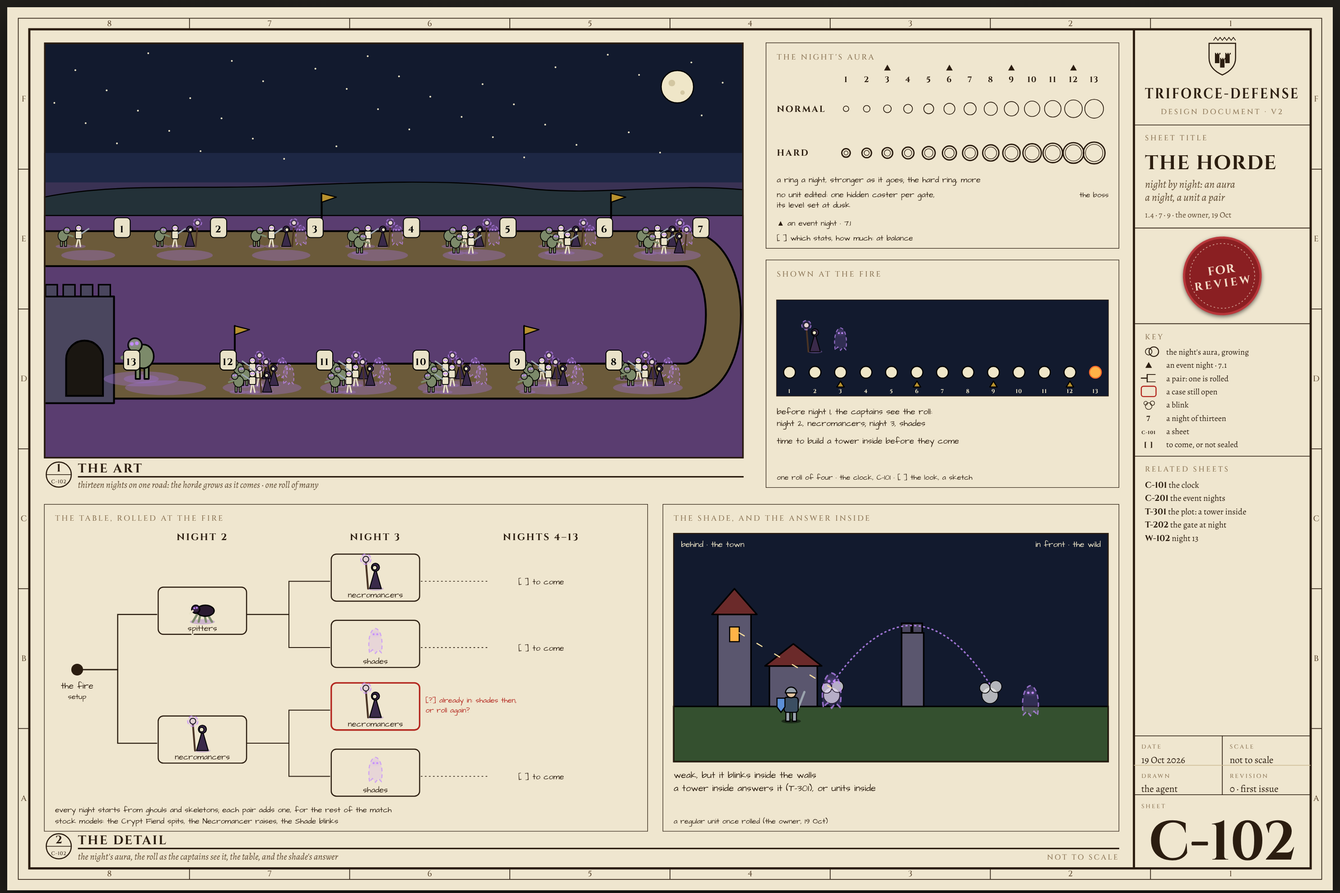
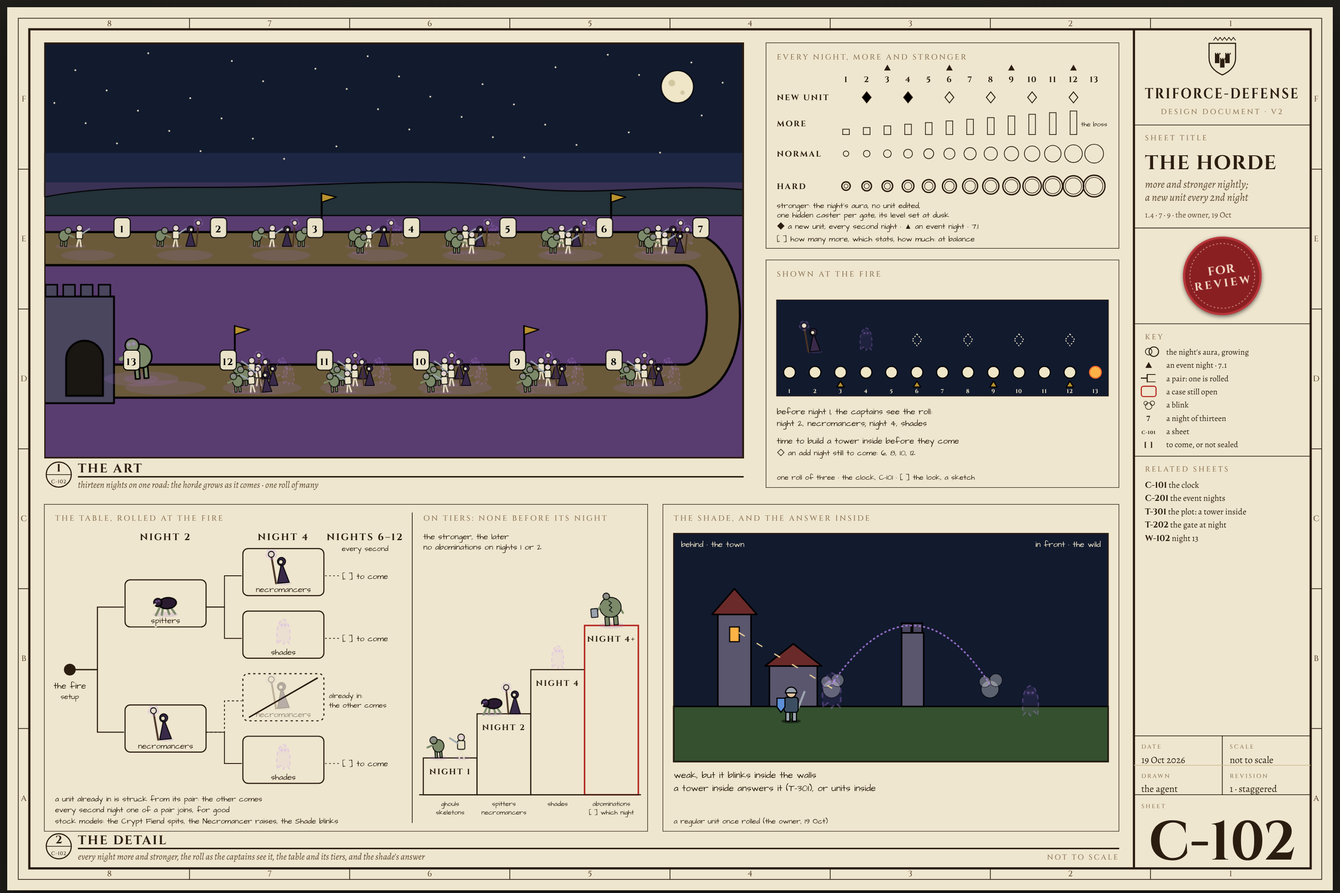
C-102 revision 1: a new unit every second night, the repeat rule, the tiers
Claude-Session: https://claude.ai/code/session_0171ubkrirX9kEJ21GccUo3u

diff --git a/design/v2/sheet_c102.js b/design/v2/sheet_c102.js
@@ -1,11 +1,12 @@
 /* sheet_c102.js — sheet C-102, the horde, night by night (the owner's ideas of 19 Oct; 1.4 · 7 · 9). Two faces
    from MODELS.horde and MODELS.clock:
-   THE ART    the horde on the road through the thirteen nights, growing as it comes: a milestone a night, the
-              event nights flagged, the new units joining as one roll of many has them, the night's aura
+   THE ART    the horde on the road through the thirteen nights, more of it every night: a milestone a night, the
+              event nights flagged, a new unit every second night as one roll of many has them, the night's aura
               glowing stronger under it, night 13's boss at the end, at the gate.
-   THE DETAIL the table, rolled at the fire, as a tree (the open case where a pair repeats is flagged); the night's
-              aura, normal and hard; the roll as the captains see it on the clock; and the shade, which blinks
-              inside the walls, with the answer inside. */
+   THE DETAIL every night more and stronger (the count; the night's aura, normal and hard), every second night a
+              new unit; the roll as the captains see it on the clock; the table, rolled at the fire, as a tree (a
+              unit already in is struck from its pair: the other comes), and beside it the tiers as a staircase
+              (none before its night); and the shade, which blinks inside the walls, with the answer inside. */
 (function () {
   (document.fonts ? Promise.all([...document.fonts].map((f) => f.load().catch(() => null))).then(() => document.fonts.ready) : Promise.resolve()).then(draw);
   function draw() {
@@ -13,9 +14,12 @@
   const HM = window.MODELS.horde, CL = window.MODELS.clock;
   const lbl = (g, x, y, s, anchor, size) => text(g, x, y, s, 'pl-lbl', anchor, size || 24);
   const N = CL.nights, EVENTS = [...CL.events.draws, CL.events.last], BOSS = CL.finale.night;
+  // the add nights: a new unit every second night, before the boss (HM.adds)
+  const ADDS = []; for (let n = HM.adds.first; n < BOSS; n += HM.adds.every) ADDS.push(n);
+  const named = (n) => HM.table.some((r) => r.night === n);
   const sc = (parts, cx, base, k) => ({ t: 'g', transform: `translate(${cx} ${base}) scale(${k}) translate(${-cx} ${-base})`, kids: parts });
   const face = (x, parts) => ({ t: 'g', transform: `translate(${2 * x} 0) scale(-1 1)`, kids: parts });
-  const FIGS = { ghoul: F.ghoul, skeleton: F.skeleton, fiend: F.fiend, necro: F.necro, shade: F.shade };
+  const FIGS = { ghoul: F.ghoul, skeleton: F.skeleton, fiend: F.fiend, necro: F.necro, shade: F.shade, abom: F.abom };
   // the horde on a night, for the example roll: the base, and what each night of the table added by then
   const hordeOn = (n, roll) => [...HM.base, ...HM.table.filter((r) => r.night <= n).map((r) => roll[r.night])];
 
@@ -56,29 +60,34 @@
   for (let n = 1; n <= N; n++) { const [x, y] = at(n), mx = x + (n <= 7 ? 92 : -92), my = y - 54; text(g, mx, my + 10, String(n), 'pl-tier', null, 26).style.fill = 'var(--f-ink)'; }
   el('rect', { width: AW, height: AH, class: 'view-frame', style: 'stroke-width:8' }, A);
 
-  /* ════════════ THE NIGHT'S AURA: normal and hard (the owner, 19 Oct) ════════════ */
+  /* ════════════ EVERY NIGHT MORE AND STRONGER; EVERY SECOND NIGHT, A NEW UNIT (the owner, 19 Oct) ════════════ */
   const AU = document.getElementById('aura'), UW = 960, UH = 560;
   const U = el('g', { class: 'hand-vellum' }, AU);
   el('rect', { width: UW, height: UH, class: 'view-frame' }, U);
-  text(U, 30, 46, "the night's aura", 'sc-kick');
+  text(U, 30, 46, 'every night, more and stronger', 'sc-kick');
   const ux0 = 190, ucw = (UW - ux0 - 40) / N;
   for (let n = 1; n <= N; n++) {
     const x = ux0 + (n - .5) * ucw;
     text(U, x, 108, String(n), 'pl-tier', null, 22);
     if (EVENTS.includes(n)) el('path', { d: `M${x - 9} 76 l18 0 l-9 -16 Z`, class: 'arrow-h' }, U);
+    // a new unit, every second night: a pair named, filled; to come, open
+    if (ADDS.includes(n)) el('path', { d: `M${x} 134 l12 15 l-12 15 l-12 -15 Z`, class: 'ln-heavy', style: `stroke-width:2.4;fill:${named(n) ? 'var(--f-ink)' : 'none'}` }, U);
+    // more: the count, a bar a night, to the boss's night
+    if (n < BOSS) { const bh = 10 + n * 4.5; el('rect', { x: x - 9, y: 250 - bh, width: 18, height: bh, class: 'ln-heavy', style: 'stroke-width:2;fill:none' }, U); }
+    // stronger: the night's aura, normal and hard
     HM.difficulties.forEach((d, r) => {
-      const y = 180 + r * 120, rr = 6 + n * 1.5 + r * 4;
+      const y = 302 + r * 88, rr = 6 + n * 1.5 + r * 4;
       el('circle', { cx: x, cy: y, r: rr, class: 'ln-heavy', style: `fill:none;stroke-width:${2 + r * 1.6}` }, U);
       if (r) el('circle', { cx: x, cy: y, r: rr - 6, class: 'ln-thin', style: 'fill:none;stroke-width:1.6' }, U);
     });
   }
-  HM.difficulties.forEach((d, r) => text(U, 30, 188 + r * 120, d.toUpperCase(), 'st-name', 'start', 24));
-  lbl(U, ux0 + (BOSS - .5) * ucw, 420, 'the boss', 'middle', 20);
-  lbl(U, 30, 380, 'a ring a night, stronger as it goes; the hard ring, more', 'start', 22);
-  lbl(U, 30, 420, 'no unit edited: one hidden caster per gate,', 'start', 22);
-  lbl(U, 30, 448, 'its level set at dusk', 'start', 22);
-  lbl(U, 30, 498, '▲ an event night · 7.1', 'start', 21);
-  lbl(U, 30, UH - 22, '[ ] which stats, how much: at balance', 'start', 21);
+  text(U, 30, 157, 'NEW UNIT', 'st-name', 'start', 22); text(U, 30, 228, 'MORE', 'st-name', 'start', 22);
+  HM.difficulties.forEach((d, r) => text(U, 30, 310 + r * 88, d.toUpperCase(), 'st-name', 'start', 22));
+  lbl(U, ux0 + (BOSS - .5) * ucw, 228, 'the boss', 'middle', 18);
+  lbl(U, 30, 450, "stronger: the night's aura, no unit edited,", 'start', 21);
+  lbl(U, 30, 476, 'one hidden caster per gate, its level set at dusk', 'start', 21);
+  lbl(U, 30, 506, '◆ a new unit, every second night · ▲ an event night · 7.1', 'start', 21);
+  lbl(U, 30, UH - 20, '[ ] how many more, which stats, how much: at balance', 'start', 21);
 
   /* ════════════ SHOWN AT THE FIRE: the roll on the clock ════════════ */
   const CK = document.getElementById('clock'), KW = 960, KH = 620;
@@ -91,45 +100,68 @@
     const x = (n - .5) * cw;
     sp.push({ t: 'circle', cx: x, cy: 196, r: 16, rc: n === BOSS ? 'f-flame' : 'f-moon' });
     if (EVENTS.includes(n)) sp.push({ t: 'poly', pts: [[x - 10, 236], [x + 10, 236], [x, 220]], rc: 'f-flag' });
-    const r = HM.table.find((t) => t.night === n);
-    if (r) { const k = HM.example[n]; sp.push(sc(FIGS[k](x, 140, 0), x, 140, .9)); }
+    if (named(n)) { const k = HM.example[n]; sp.push(sc(FIGS[k](x, 140, 0), x, 140, .9)); }
+    else if (ADDS.includes(n)) sp.push({ t: 'poly', pts: [[x, 92], [x + 13, 108], [x, 124], [x - 13, 108]], rc: 'f-moon', style: 'fill:none;stroke:var(--f-moon);stroke-width:2.4;stroke-dasharray:4 4' });
   }
   render(sp, strip);
   for (let n = 1; n <= N; n++) { const t = text(strip, (n - .5) * cw, 252, String(n), 'pl-tier', null, 15); t.style.fill = 'var(--f-moon)'; }
   el('rect', { x: 30, y: 110, width: SW, height: SH, class: 'view-frame', style: 'stroke-width:3' }, K);
   lbl(K, 30, 420, 'before night 1, the captains see the roll:', 'start', 23);
-  lbl(K, 30, 452, `night 2, ${HM.units[HM.example[2]].name}; night 3, ${HM.units[HM.example[3]].name}`, 'start', 23);
+  lbl(K, 30, 452, HM.table.map((r) => `night ${r.night}, ${HM.units[HM.example[r.night]].name}`).join('; '), 'start', 23);
   lbl(K, 30, 500, 'time to build a tower inside before they come', 'start', 23);
-  lbl(K, 30, KH - 22, 'one roll of four · the clock, C-101 · [ ] the look, a sketch', 'start', 20);
+  lbl(K, 30, 532, `◇ an add night still to come: ${ADDS.filter((n) => !named(n)).join(', ')}`, 'start', 21);
+  lbl(K, 30, KH - 22, 'one roll of three · the clock, C-101 · [ ] the look, a sketch', 'start', 20);
 
-  /* ════════════ THE TABLE, ROLLED AT THE FIRE: a tree (the owner, 19 Oct) ════════════ */
+  /* ════════════ THE TABLE, ROLLED AT THE FIRE: a tree; and the tiers, a staircase (the owner, 19 Oct) ════════════ */
   const TB = document.getElementById('table'), TW = 1640, TH = 890;
   const T = el('g', { class: 'hand-vellum' }, TB);
   el('rect', { width: TW, height: TH, class: 'view-frame' }, T);
   text(T, 30, 46, 'the table, rolled at the fire', 'sc-kick');
-  const [r2, r3] = HM.table, node = (x, y, k, mark) => {
-    el('rect', { x: x - 120, y: y - 74, width: 240, height: 128, rx: 14, class: mark ? 'rl' : 'pl-old', style: `stroke-width:${mark ? 4 : 3};fill:var(--dv-paper)` }, T);
-    render([sc(FIGS[k](x, y + 20, 0), x, y + 20, 1)], el('g', {}, TB));
-    lbl(T, x, y + 44, HM.units[k].name, 'middle', 22);
+  // a unit already in is struck from its pair, and the other comes (HM.repeat): drawn faded, struck through
+  const [r2, r3] = HM.table, NW = 220, node = (x, y, k, struck) => {
+    el('rect', { x: x - NW / 2, y: y - 74, width: NW, height: 128, rx: 14, class: 'pl-old', style: `stroke-width:3;fill:var(--dv-paper)${struck ? ';stroke-dasharray:6 8' : ''}` }, T);
+    render([sc(FIGS[k](x, y + 20, 0), x, y + 20, 1)], el('g', struck ? { style: 'opacity:.3' } : {}, TB));
+    const nm = lbl(T, x, y + 44, HM.units[k].name, 'middle', 22);
+    if (struck) { nm.style.opacity = .45; el('line', { x1: x - NW / 2 + 18, y1: y + 44, x2: x + NW / 2 - 18, y2: y - 62, class: 'ln-heavy', style: 'stroke-width:4' }, T); }
   };
-  const rx = 90, ry = 450, x2 = 430, x3 = 900, xr = 1350;
+  const rx = 70, ry = 450, x2 = 330, x3 = 650, xr = 872;
   el('circle', { cx: rx, cy: ry, r: 16, class: 'pl-wall' }, T); lbl(T, rx, ry + 52, 'the fire', 'middle', 24); lbl(T, rx, ry + 80, 'setup', 'middle', 20);
-  text(T, x2, 98, `NIGHT ${r2.night}`, 'st-name', 'middle', 26); text(T, x3, 98, `NIGHT ${r3.night}`, 'st-name', 'middle', 26); text(T, xr, 98, `NIGHTS ${r3.night + 1}–${N}`, 'st-name', 'middle', 26);
+  text(T, x2, 98, `NIGHT ${r2.night}`, 'st-name', 'middle', 26); text(T, x3, 98, `NIGHT ${r3.night}`, 'st-name', 'middle', 26); const later = ADDS.filter((n) => n > r3.night);
+  text(T, xr, 98, `NIGHTS ${later[0]}–${later[later.length - 1]}`, 'st-name', 'middle', 26); lbl(T, xr, 128, 'every second', 'middle', 20);
   r2.pair.forEach((k2, i) => {
-    const y2 = 300 + i * 350;
-    el('path', { d: `M${rx} ${ry} H${(rx + x2 - 120) / 2} V${y2} H${x2 - 124}`, class: 'ln-heavy', style: 'stroke-width:3;fill:none' }, T);
+    const y2 = 280 + i * 340;
+    el('path', { d: `M${rx} ${ry} H${(rx + x2 - NW / 2) / 2} V${y2} H${x2 - NW / 2 - 4}`, class: 'ln-heavy', style: 'stroke-width:3;fill:none' }, T);
     node(x2, y2, k2);
     r3.pair.forEach((k3, j) => {
-      const y3 = y2 - 90 + j * 180, repeat = k3 === k2;
-      el('path', { d: `M${x2 + 120} ${y2} H${(x2 + x3) / 2} V${y3} H${x3 - 124}`, class: 'ln-thin', style: 'stroke-width:2.4;fill:none' }, T);
-      node(x3, y3, k3, repeat);
-      if (repeat) lbl(T, x3 + 136, y3 - 20, '[?] already in: shades then,', 'start', 20).style.fill = 'var(--redline)';
-      if (repeat) lbl(T, x3 + 136, y3 + 6, 'or roll again?', 'start', 20).style.fill = 'var(--redline)';
-      else { el('line', { x1: x3 + 124, y1: y3, x2: xr - 140, y2: y3, class: 'ln-thin', style: 'stroke-width:2;stroke-dasharray:3 8' }, T); lbl(T, xr, y3 + 8, '[ ] to come', 'middle', 22); }
+      const y3 = y2 - 85 + j * 170, struck = k3 === k2;
+      el('path', { d: `M${x2 + NW / 2} ${y2} H${(x2 + x3) / 2} V${y3} H${x3 - NW / 2 - 4}`, class: 'ln-thin', style: `stroke-width:2.4;fill:none${struck ? ';stroke-dasharray:4 8' : ''}` }, T);
+      node(x3, y3, k3, struck);
+      if (struck) { lbl(T, x3 + NW / 2 + 14, y3 - 8, 'already in:', 'start', 20); lbl(T, x3 + NW / 2 + 14, y3 + 18, 'the other comes', 'start', 20); }
+      else { el('line', { x1: x3 + NW / 2 + 4, y1: y3, x2: xr - 66, y2: y3, class: 'ln-thin', style: 'stroke-width:2;stroke-dasharray:3 8' }, T); lbl(T, xr, y3 + 8, '[ ] to come', 'middle', 22); }
     });
   });
-  lbl(T, 30, TH - 52, 'every night starts from ghouls and skeletons; each pair adds one, for the rest of the match', 'start', 21);
+  lbl(T, 30, TH - 82, 'a unit already in is struck from its pair: the other comes', 'start', 21);
+  lbl(T, 30, TH - 52, 'every second night one of a pair joins, for good', 'start', 21);
   lbl(T, 30, TH - 22, 'stock models: the Crypt Fiend spits, the Necromancer raises, the Shade blinks', 'start', 21);
+
+  // the tiers (HM.tiers): a step a tier, none before its night, the stronger the later; the last step's night open
+  el('line', { x1: 1000, y1: 24, x2: 1000, y2: TH - 24, class: 'ln-thin', style: 'stroke-width:2' }, T);
+  text(T, 1030, 46, 'on tiers: none before its night', 'sc-kick');
+  lbl(T, 1030, 96, 'the stronger, the later', 'start', 22);
+  lbl(T, 1030, 124, 'no abominations on nights 1 or 2', 'start', 22);
+  const sx0 = 1030, sw = 146, floor = 790;
+  HM.tiers.forEach((tr, i) => {
+    const x = sx0 + i * sw, top = 690 - i * 120, open = tr.from == null;
+    el('rect', { x, y: top, width: sw, height: floor - top, class: open ? 'rl' : 'pl-old', style: `stroke-width:${open ? 4 : 3};fill:var(--dv-paper)` }, T);
+    text(T, x + sw / 2, top + 44, open ? `NIGHT ${ADDS.find((n) => n > tr.after)}+` : `NIGHT ${tr.from}`, 'st-name', 'middle', 22);
+    tr.units.forEach((k, j) => {
+      const fx = x + sw / 2 + (j - (tr.units.length - 1) / 2) * 64;
+      render([sc(FIGS[k](fx, top, j * .2), fx, top, .9)], el('g', {}, TB));
+      lbl(T, x + sw / 2, floor + 30 + j * 24, HM.units[k].name, 'middle', 18);
+    });
+    if (open) lbl(T, x + sw / 2, floor + 54, '[ ] which night', 'middle', 18);
+  });
+  el('line', { x1: sx0 - 10, y1: floor, x2: sx0 + HM.tiers.length * sw + 6, y2: floor, class: 'ln-heavy', style: 'stroke-width:3' }, T);
 
   /* ════════════ THE SHADE, AND THE ANSWER INSIDE ════════════ */
   const SD = document.getElementById('shade'), DW = 1240, DH = 890;

diff --git a/design/v2/C-102.html b/design/v2/C-102.html
@@ -4,7 +4,7 @@
 <meta charset="utf-8">
 <meta name="viewport" content="width=device-width, initial-scale=1">
 <title>C-102 · The Horde</title>
-<meta name="description" content="Sheet C-102, the horde night by night: the horde growing on the road through thirteen nights, the night's aura for normal and hard, the unit table rolled at the fire, and the shade that blinks inside the walls. From the owner's ideas of 19 October.">
+<meta name="description" content="Sheet C-102, the horde night by night: the horde growing on the road through thirteen nights, the night's aura for normal and hard, the unit table rolled at the fire and its tiers, and the shade that blinks inside the walls. From the owner's ideas of 19 October.">
 <link rel="stylesheet" href="wallsheet_tokens.css">
 <link rel="stylesheet" href="wallsheet_ds.css">
 </head>
@@ -12,7 +12,7 @@
 <main class="sheet">
   <svg viewBox="0 0 3600 2400" aria-labelledby="c102-title" aria-describedby="c102-desc">
     <title id="c102-title">Sheet C-102, the horde, night by night. For review.</title>
-    <desc id="c102-desc">The art, top left: the horde on a road through the thirteen nights, a switchback across a blighted land at night, a milestone for every night, the event nights flagged. It grows as it comes: ghouls and skeletons, then necromancers from night 2 and shades from night 3, as one roll of many has it, the night's aura glowing stronger beneath it, and at the road's end, at the gate, night 13's boss. Top right, the night's aura: a ring for every night in two rows, normal and hard, growing night by night, no unit edited, one hidden caster per gate set at dusk; and the roll as the captains see it at the fire, the clock's thirteen nights with the new units above nights 2 and 3. Below, the table rolled at the fire, a tree: from the fire to night 2's pair, spitters or necromancers, to night 3's pair, necromancers or shades, the case where the pair repeats flagged as open, the rest of the table to come. And the shade: weak, it blinks over the wall into the town, where a tower inside shoots it and a footman takes it.</desc>
+    <desc id="c102-desc">The art, top left: the horde on a road through the thirteen nights, a switchback across a blighted land at night, a milestone for every night, the event nights flagged. More of it comes every night: ghouls and skeletons, then a new unit every second night, necromancers from night 2 and shades from night 4 as one roll of many has it, the night's aura glowing stronger beneath it, and at the road's end, at the gate, night 13's boss. Top right, every night more and stronger: a diamond on every second night for a new unit, a bar a night for the count, and a ring a night in two rows, normal and hard, for the night's aura, no unit edited, one hidden caster per gate set at dusk; and the roll as the captains see it at the fire, the clock's thirteen nights with the new units above nights 2 and 4 and open diamonds above the add nights still to come. Below, the table rolled at the fire, a tree: from the fire to night 2's pair, spitters or necromancers, to night 4's pair, necromancers or shades; where night 2 brought necromancers they are struck from night 4's pair and shades come; nights 6 to 12 to come. Beside it the tiers, a staircase, a step a tier, none before its night: ghouls and skeletons from night 1, spitters and necromancers from night 2, shades from night 4, abominations on a last step, not before night 4, their night open. And the shade: weak, it blinks over the wall into the town, where a tower inside shoots it and a footman takes it.</desc>
     <rect class="paper" width="3600" height="2400"/>
     <rect class="border-2" x="30" y="30" width="3540" height="2340"/>
     <rect class="border" x="60" y="60" width="3480" height="2280"/>
@@ -49,16 +49,16 @@
     <text class="vt-title" x="192" y="1264" style="font-size:34px">THE ART</text>
     <line class="rule" x1="192" y1="1276" x2="2000" y2="1276" style="stroke-width:4"/>
     <text class="vt-sub" x="192" y="1306" style="font-size:25px">thirteen nights on one road: the horde grows as it comes · one roll of many</text>
-    <svg id="aura" x="2060" y="96" width="960" height="560" viewBox="0 0 960 560" role="img" aria-label="The night's aura, normal and hard."></svg>
+    <svg id="aura" x="2060" y="96" width="960" height="560" viewBox="0 0 960 560" role="img" aria-label="Every night more and stronger: the count, and the night's aura, normal and hard; every second night a new unit."></svg>
     <svg id="clock" x="2060" y="686" width="960" height="620" viewBox="0 0 960 620" role="img" aria-label="The roll, shown at the fire on the clock."></svg>
-    <svg id="table" x="100" y="1350" width="1640" height="890" viewBox="0 0 1640 890" role="img" aria-label="The unit table rolled at the fire, as a tree."></svg>
+    <svg id="table" x="100" y="1350" width="1640" height="890" viewBox="0 0 1640 890" role="img" aria-label="The unit table rolled at the fire, as a tree; and the tiers, a staircase."></svg>
     <svg id="shade" x="1780" y="1350" width="1240" height="890" viewBox="0 0 1240 890" role="img" aria-label="The shade blinks inside the walls; the answer inside."></svg>
 
     <circle class="vt-ring" cx="140" cy="2280" r="34"/><line class="rule" x1="106" y1="2280" x2="174" y2="2280"/>
     <text class="vt-id" x="140" y="2272" style="font-size:30px">2</text><text class="vt-sh" x="140" y="2304" style="font-size:14px">C-102</text>
     <text class="vt-title" x="192" y="2274" style="font-size:34px">THE DETAIL</text>
     <line class="rule" x1="192" y1="2286" x2="3020" y2="2286" style="stroke-width:4"/>
-    <text class="vt-sub" x="192" y="2316" style="font-size:25px">the night's aura, the roll as the captains see it, the table, and the shade's answer</text>
+    <text class="vt-sub" x="192" y="2316" style="font-size:25px">every night more and stronger, the roll as the captains see it, the table and its tiers, and the shade's answer</text>
     <text class="vt-scale" x="3020" y="2316">NOT TO SCALE</text>
 
     <line class="rule" x1="3060" y1="60" x2="3060" y2="2340" style="stroke-width:6"/>
@@ -72,8 +72,8 @@
     <line class="rule" x1="3060" y1="320" x2="3540" y2="320"/>
     <text class="tb-kick" x="3090" y="362">sheet title</text>
     <text class="tb-title" x="3090" y="440" style="font-size:54px">THE HORDE</text>
-    <text class="tb-sub" x="3090" y="490" style="font-size:29px">night by night: an aura</text>
-    <text class="tb-sub" x="3090" y="526" style="font-size:29px">a night, a unit a pair</text>
+    <text class="tb-sub" x="3090" y="490" style="font-size:29px">more and stronger nightly;</text>
+    <text class="tb-sub" x="3090" y="526" style="font-size:29px">a new unit every 2nd night</text>
     <text class="tb-small" x="3090" y="572">1.4 · 7 · 9 · the owner, 19 Oct</text>
     <line class="rule" x1="3060" y1="600" x2="3540" y2="600"/>
     <g transform="translate(3300 730) rotate(-8)">
@@ -96,7 +96,7 @@
     <text class="tb-kick" x="3320" y="2014" style="font-size:16px">scale</text><text class="tb-text" x="3320" y="2054">not to scale</text>
     <line class="rule-2" x1="3060" y1="2060" x2="3540" y2="2060"/>
     <text class="tb-kick" x="3080" y="2094" style="font-size:16px">drawn</text><text class="tb-text" x="3080" y="2132">the agent</text>
-    <text class="tb-kick" x="3320" y="2094" style="font-size:16px">revision</text><text class="tb-text" x="3320" y="2132">0 · first issue</text>
+    <text class="tb-kick" x="3320" y="2094" style="font-size:16px">revision</text><text class="tb-text" x="3320" y="2132">1 · staggered</text>
     <line class="rule" x1="3060" y1="2140" x2="3540" y2="2140"/>
     <text class="tb-kick" x="3080" y="2176" style="font-size:16px">sheet</text>
     <text class="tb-num" x="3300" y="2316" textLength="400" lengthAdjust="spacingAndGlyphs">C-102</text>

diff --git a/design/v2/model_horde.js b/design/v2/model_horde.js
@@ -1,26 +1,43 @@
-/* model_horde.js — THE HORDE, night by night (the owner's ideas of 19 Oct, shaped by the owner's three answers; 1.4 ·
-   7 · 9), as one model. Sheet C-102 draws it twice: as the art (the horde on the road, growing night by night,
-   one roll of many) and as the detail (the table rolled at the fire, the night's aura, the shade's answer).
+/* model_horde.js — THE HORDE, night by night (the owner's ideas of 19 Oct, shaped by the owner's answers; 1.4 ·
+   7 · 9), as one model: every night more and stronger, every second night a new unit. Sheet C-102 draws it twice:
+   as the art (the horde on the road, growing night by night, one roll of many) and as the detail (the nights'
+   growth, the table rolled at the fire, the tiers, the shade's answer).
    The nights, the event nights and night 13 come from MODELS.clock; nothing here is a balance value. */
 (function () {
   (window.MODELS = window.MODELS || {}).horde = {
     // every night's wave starts from the stock horde (v1's dioramas: ghouls and skeletons)
     base: ['ghoul', 'skeleton'],
-    // the unit table: each listed night adds one of a pair, rolled at setup and shown at the fire (owner, 19 Oct).
-    // The owner named two; the rest of the table is to come
-    table: [{ night: 2, pair: ['fiend', 'necro'] }, { night: 3, pair: ['necro', 'shade'] }],
+    // every night the horde grows in count and in strength; a new unit only every second night, staggered (owner,
+    // 19 Oct: "every 2 nights we add a unit"): nights 2, 4, 6, 8, 10, 12, before night 13's boss
+    adds: { first: 2, every: 2 },
+    // the unit table: each add night brings one of a pair, rolled at setup and shown at the fire (owner, 19 Oct).
+    // The owner named two pairs (said for nights 2 and 3, before adds came every second night); the rest is to come
+    table: [{ night: 2, pair: ['fiend', 'necro'] }, { night: 4, pair: ['necro', 'shade'] }],
+    // the repeat rule (owner, 19 Oct): a unit already in is struck from its pair, and the other comes
+    // (night 2 necromancers, so night 4 shades)
+    repeat: 'the other of the pair',
+    // the tiers (owner, 19 Oct): units are staged by how strong they are, and none comes before its tier's night
+    // ("you can't get abomination round 1 or 2"). As Mindustry's unit ladders and Shattered Pixel Dungeon's mob
+    // rotation by depth stage theirs. The abomination's night is open: the first add night after night 2, at the earliest
+    tiers: [
+      { from: 1, units: ['ghoul', 'skeleton'] },
+      { from: 2, units: ['fiend', 'necro'] },
+      { from: 4, units: ['shade'] },
+      { from: null, after: 2, units: ['abom'] }
+    ],
     units: {
       ghoul: { name: 'ghouls', model: 'Ghoul' }, skeleton: { name: 'skeletons', model: 'Skeleton Warrior' },
       fiend: { name: 'spitters', model: 'Crypt Fiend', does: 'spits from range' },
       necro: { name: 'necromancers', model: 'Necromancer', does: 'raises the dead' },
       // a regular unit once rolled (owner, 19 Oct): weak, it blinks inside the walls; a tower or units inside answer it
-      shade: { name: 'shades', model: 'Shade, with Blink', does: 'blinks inside the walls' }
+      shade: { name: 'shades', model: 'Shade, with Blink', does: 'blinks inside the walls' },
+      abom: { name: 'abominations', model: 'Abomination' }
     },
     // the night's aura: one aura per night per difficulty raises the horde's stats in data, no unit edited; one
     // hidden caster per gate, its level set at dusk (owner, 19 Oct: normal and hard). Which stats, how much: open
     difficulties: ['normal', 'hard'],
     aura: { caster: 'one hidden caster per gate', set: 'its level, at dusk', stats: null },
-    // the roll the art draws: one of the four (night 2 necromancers, so night 3 shades)
-    example: { 2: 'necro', 3: 'shade' }
+    // the roll the art draws: one of the three (night 2 necromancers, so night 4 shades, the other of the pair)
+    example: { 2: 'necro', 4: 'shade' }
   };
 })();

diff --git a/design/v2/figures.js b/design/v2/figures.js
@@ -85,6 +85,23 @@
       { t: 'circle', cx: cx + 5, cy: base - 56, r: 2.6, rc: 'f-eye', dc: null }
     ] }
   ];
+  /* the abomination: the owner's example of a strong unit held to a later tier (19 Oct). The gut, its stitches,
+     a small head, the cleaver */
+  FIG.abom = (cx, base, delay) => [
+    { t: 'ellipse', cx, cy: base, rx: 40, ry: 9, rc: 'f-aura', dc: null, anim: 'm-tell' },
+    { t: 'g', anim: 'm-shamble', delay, kids: [
+      { t: 'rect', x: cx - 18, y: base - 26, w: 13, h: 26, rc: 'f-ghoul', dc: 'ln' },
+      { t: 'rect', x: cx + 8, y: base - 26, w: 13, h: 26, rc: 'f-ghoul', dc: 'ln' },
+      { t: 'line', x1: cx + 24, y1: base - 62, x2: cx + 38, y2: base - 34, rc: 'f-limb', dc: 'ln-open' },
+      { t: 'ellipse', cx: cx + 2, cy: base - 54, rx: 32, ry: 30, rc: 'f-ghoul', dc: 'ln' },
+      { t: 'path', d: `M${cx - 2} ${base - 74} l8 7 l-8 7 l8 7 l-8 7 l8 7`, rc: 'f-limb', dc: 'ln-open', style: 'stroke:var(--f-ink);stroke-width:2;fill:none' },
+      { t: 'circle', cx: cx - 8, cy: base - 88, r: 10, rc: 'f-ghoul', dc: 'ln' },
+      { t: 'circle', cx: cx - 12, cy: base - 89, r: 2.6, rc: 'f-eye', dc: null, anim: 'm-tell' },
+      { t: 'circle', cx: cx - 5, cy: base - 90, r: 2.6, rc: 'f-eye', dc: null, anim: 'm-tell' },
+      { t: 'line', x1: cx - 26, y1: base - 62, x2: cx - 42, y2: base - 44, rc: 'f-limb', dc: 'ln-open' },
+      { t: 'rect', x: cx - 58, y: base - 54, w: 20, h: 26, rx: 2, rc: 'f-steel', dc: 'ln' }
+    ] }
+  ];
 
   /* a captain on horseback with the town's banner (the field force's head) */
   FIG.rider = (cx, base) => [

diff --git a/design/v2/wallsheet.js b/design/v2/wallsheet.js
@@ -41,6 +41,7 @@
         render(p.kids, gg);
       } else if (p.rc) {
         const s = shape(p, p.rc + (p.anim ? ' ' + p.anim : ''), g);
+        if (p.style) s.setAttribute('style', p.style);
         if (p.delay) s.style.setProperty('--d', p.delay + 's');
       }
     }

diff --git a/DECISIONS.md b/DECISIONS.md
@@ -142,8 +142,8 @@ Status ∈ **Planned · In Design · Locked · Built · Superseded**.
 | Plot count and menu contents | Defines the fork | Human | Open |
 | Night count / day length / buff values | Match length | Human | Open (defaults in Decision 1.4) |
 | The quick road isn't quicker on the sketch: hill to forest through the wild measures 1.13× the safe road, wall to wall. Every gate faces north while the roads leave the towns' sides; where do the roads meet the gates? (sheet M-101) | Decision 1.2's choice, every reinforcement | Human | Open. Owner, 19 Oct: the safe road is safe because you lose no units on it (a speed-aura road was raised and dropped) |
-| The night ladder: which stats the night's aura raises, and by how much, normal and hard; and the hard set's own curve (sheet C-102) | The horde's growth, the two difficulties | Human | Open (the shape is sealed; see the Change Log, 19 Oct) |
-| The unit table past night 3, and the repeat rule: if night 2 rolls necromancers, night 3's pair (necromancers or shades) holds them already; shades then, or roll again? (sheet C-102) | Each match's horde | Human | Open |
+| The night ladder: how many more each night, which stats the night's aura raises, and by how much, normal and hard; and the hard set's own curve (sheet C-102) | The horde's growth, the two difficulties | Human | Open (the shape is sealed; see the Change Log, 19 Oct) |
+| The unit table past night 4 (adds on nights 6, 8, 10 and 12), and the abomination's night (4 at the earliest) (sheet C-102) | Each match's horde | Human | Open (every second night, the repeat rule and the tiers are sealed; see the Change Log, 19 Oct) |
 | What we change from Left 2 Die, beyond three players, Humans and the King's army; and whether to borrow its entrances that open on a set night, the wild hardening where it isn't cleared, or its endless mode (`docs/LEFT2DIE.md`) | The game's other parent | Human | Open |
 | Undead air: how much, so Riflemen + towers are enough | No player air T3 | Agent | Open |
 | Ritual mechanics: what weakens the boss per ritual, acolyte behaviour | Win B | Human | Open |
@@ -164,3 +164,4 @@ Status ∈ **Planned · In Design · Locked · Built · Superseded**.
 | 2026-10-19 | New (owner): the horde, night by night. Each night carries an aura per difficulty that raises the horde's stats in data, no unit edited (one hidden caster per gate, its level set at dusk), in two sets, normal and hard. Each night of the unit table adds one unit of a pair, rolled at setup and shown at the fire before night 1 (named so far: night 2, spitters or necromancers; night 3, necromancers or shades), on stock models (the Crypt Fiend, the Necromancer, the Shade with Blink). Shades are a regular unit once rolled: weak, they blink inside the walls, so a tower or units inside have a job. Precedents: WC3 maps' dummy-aura casters; Mindustry's wave generator (random unit lines, scaling by shields). | Owner, 19 Oct, answering three questions | the nights (1.4, 7), the wave data, `design/v2/model_horde.js`, sheet C-102 |
 | 2026-10-19 | Decisions 2.3 and 6.7 clarified: the garrison holds the gate from outside it (footmen cannot fight through a closed gate), the repair crew mends it from inside the walls, and the scout towers shoot over the wall from behind it. The garrison's captain stays behind the gate (2.3, amended in v1). | Owner, on sheet T-201: the crew was drawn outside, then the garrison inside | the garrison's rally point, the crew's path, `design/v2/sheet_t201.js`, `design/v2/sheet_t202.js` |
 | 2026-10-19 | The owner names StarCraft II's *Left 2 Die* (Blizzard, 2011; from WoL's *Outbreak*; remade 2017 as co-op *Dead of Night*) as a base, "with some changes of course". Researched and noted: the same night/day push loop; its win burns every infested structure where ours breaks three rituals; its fortress-and-repairing-SCVs line is our gate and crew; Dead of Night's two random special infested per run and its HP-per-difficulty match C-102's roll and auras. No decision changed; one open question. | Owner, 19 Oct | `docs/LEFT2DIE.md`; the one sentence (a second parent named, the sentence unchanged) |
+| 2026-10-19 | The horde's growth, corrected, and the unit table's rules. **Every night** the horde grows in count and in strength (the night's aura); **a new unit only every second night**, staggered: nights 2, 4, 6, 8, 10, 12, before the boss (the owner: "I don't have 14 different units worked out"). The named pairs fall on nights 2 and 4 (spitters or necromancers; necromancers or shades); 6 to 12 are to come. **Repeat:** a unit already in is struck from its pair and the other comes (night 2 necromancers, so night 4 shades); three rolls, not four. **Tiers:** units are staged by how strong they are, and none comes before its tier's night ("you can't get abomination round 1 or 2"): ghouls and skeletons from night 1, spitters and necromancers from 2, shades from 4, the abomination 4 at the earliest. Precedents: Mindustry's unit ladders (a line climbs a tier a step, the top tier kept for bosses) and Shattered Pixel Dungeon's mob rotation by depth (each mob enters at a set depth). Supersedes the 19 Oct row's "each night of the unit table" and its night-3 pair. | Owner, 19 Oct, on sheet C-102 | the wave data, `design/v2/model_horde.js`, sheet C-102 |

diff --git a/docs/CHANGELOG.md b/docs/CHANGELOG.md
@@ -7,6 +7,12 @@ Mirrors the Build Timeline in `DECISIONS.md`.
 ## Unreleased
 - …
 
+## 2026-10-19 — C-102 revision 1: a new unit every second night; the repeat rule; the tiers
+- The owner corrected the horde's growth: not a new unit every night ("I don't have 14 different units worked out"). Every night the horde grows in count and in strength; a new unit every second night, staggered: nights 2, 4, 6, 8, 10, 12. The named pairs fall on nights 2 and 4; 6 to 12 are to come.
+- The owner on C-102's open case: a unit already in is struck from its pair and the other comes (night 2 necromancers, so night 4 shades). And units are staged on tiers by how strong they are, none before its tier's night ("you can't get abomination round 1 or 2"). Looked up first: Mindustry's `Waves.java` (unit lines as five-tier ladders, climbed a tier a step, the top tier kept for bosses) and Shattered Pixel Dungeon's `MobSpawner.java` (a mob rotation per depth, each mob entering at a set depth). Change Log row in `DECISIONS.md`; the open questions narrow to the table past night 4, the abomination's night, and how many more each night.
+- `model_horde.js` gains the add nights, the repeat rule and the tiers; figures gain the Abomination. C-102: the top-right panel becomes "every night, more and stronger", four rows over the thirteen nights (a diamond on every second night for a new unit, a bar a night for the count, the aura's rings, normal and hard); the clock strip marks the add nights still to come; the table's struck necromancers faded and crossed, "already in: the other comes"; beside the tree, the tiers as a staircase, the units standing on the night they may first come, the abomination's step (night 4+) open in red. One roll of three. In the art, shades now join on night 4.
+- `wallsheet.js`: `render()` now applies a part's `style`. Only C-102 passes one: its road widths, and its aura glowing stronger night by night, which the art had drawn without.
+
 ## 2026-10-19 — Left 2 Die, the other parent
 - The owner: the game is based on StarCraft II's *Left 2 Die*, with changes. `docs/LEFT2DIE.md` (new): what it is (Blizzard's 2011 co-op map from WoL's *Outbreak*, remade as *Dead of Night* in 2017), the loop, the special infested and how difficulty scales them, the players' kit and biomass, the map, and a side-by-side with this design. Sourced from search excerpts; the wiki and forum hosts were refused by the session's network, and what no source settled is marked unconfirmed.
 - `DECISIONS.md`: the second parent named under the one sentence (the sentence unchanged), a Change Log row, and one open question: what changes, and whether to borrow three of its devices.

diff --git a/design/v2/RULES.md b/design/v2/RULES.md
@@ -58,7 +58,7 @@ Q1–Q7 are answered and sealed as R1–R10 (19 Oct 2026). A new rule, or a chan
 | T-201 | the gate (2.3 · 2.4 · 6.7) | the art (the gate's own elevation, X-001's model, at the first blow) beside its card and one gate in three towns, over the gate in plan and who does what at the gate | **approved** 19 Oct. Its numbers are v1's screen's, bracketed. Rev 1: the owner found the night chart meaningless; of three replacements shown (`shots/T-201-panel-options.png`) the owner liked all three and split the gate in two. Rev 2: the owner caught the crew on the wrong side of the wall; the art is split at a break, behind (the town, the crew inside) and in front (the wild, the garrison out front) |
 | T-202 | the gate at night (2.3 · 2.7 · 6.7 · 7) | the art (three nights at the gate, a storyboard that plays like an animatic) over what's at your gate tonight (a tree) | **approved** 19 Oct. Born of T-201's split; its frames carry the same break, the crew behind it, the garrison out front |
 | T-401 | the forge and the market (6.4 · 6.6 · 3.1) | the art (a street by day: the smith, the stalls, a footman with the new blade) beside the forge's window and the market's shelf, over the ladder on the footman himself (R10's steps) | **approved** 19 Oct. Its numbers are v1's screens', bracketed |
-| C-102 | the horde, night by night (1.4 · 7 · the owner's ideas, 19 Oct) | the art (the horde on a switchback road through thirteen nights, growing) beside the night's aura and the roll at the fire, over the table as a tree and the shade's answer | first issue, for review. Born of the owner's idea mid-session; the table past night 3 and the aura's values are open |
+| C-102 | the horde, night by night (1.4 · 7 · the owner's ideas, 19 Oct) | the art (the horde on a switchback road through thirteen nights, growing) beside the night's aura and the roll at the fire, over the table as a tree, its tiers as a staircase, and the shade's answer | revision 1, for review. Born of the owner's idea mid-session; the owner's corrections drawn in (a new unit every second night; the repeat rule; the tiers); the table past night 4, the abomination's night and the growth's values are open |
 
 ## Sources
 

diff --git a/design/v2/README.md b/design/v2/README.md
@@ -41,7 +41,7 @@ Add `?motion=data` to keep only what the numbers drive, or `?motion=still` to se
 - `M-101.html` — the province (approved): a diorama at dusk, the graph, the plan, section A–A, the two roads raced
 - `T-201.html` — the gate (approved): the first blow at night; its card; one gate, three towns, one language; the crew's run in plan; who does what at the gate
 - `T-202.html` — the gate at night (approved): three nights at the gate, a storyboard that plays like an animatic; what's at your gate tonight, a tree
-- `C-102.html` — the horde, night by night (for review): the horde on the road growing; the night's aura, normal and hard; the roll at the fire; the table as a tree; the shade's answer
+- `C-102.html` — the horde, night by night (for review): the horde on the road growing; every night more and stronger, a new unit every second; the roll at the fire; the table as a tree and its tiers as a staircase; the shade's answer
 - `T-401.html` — the forge and the market (approved): a street by day; the forge's window; the market's shelf; the ladder on the footman himself
 - `T-301.html` — the plot and its seven (approved): one ground, seven futures; the card; what each answers; the questions a plot asks; the build in view
 - `T-101.html` — the hill (approved): the town under its mountains, a key plan, the river source to lake, the hill's charge, three numbered steps

diff --git a/docs/LEFT2DIE.md b/docs/LEFT2DIE.md
@@ -52,7 +52,7 @@
 | Win: burn every infested structure (144–151) | Win: break three rituals (1.3) | fewer, bigger |
 | No fixed night count; benchmark "win before night 5" | 13 nights, then the boss or the King's army (1.3) | changed |
 | Fortress at the entrance, SCVs repairing it | the gate, its repair crew inside (2.4, T-201) | same |
-| Two random special infested per run (Dead of Night) | one unit of a pair rolled per night, shown at the fire (C-102) | same idea |
+| Two random special infested per run (Dead of Night) | one of a pair every second night, rolled at setup, shown at the fire (C-102) | same idea |
 | Difficulty: Stank HP 2,000 → 5,000 | the night's aura, normal and hard (C-102) | same idea |
 | Rocks open new entrances on night 2 | event nights (C-101) | could borrow |
 | Biomass from specials and structures → research for both | loot from champions and side objectives, team-fair (3.1) | differs |
